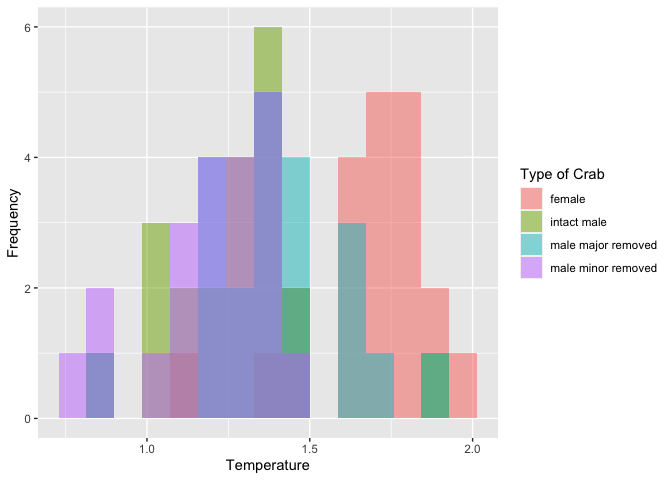
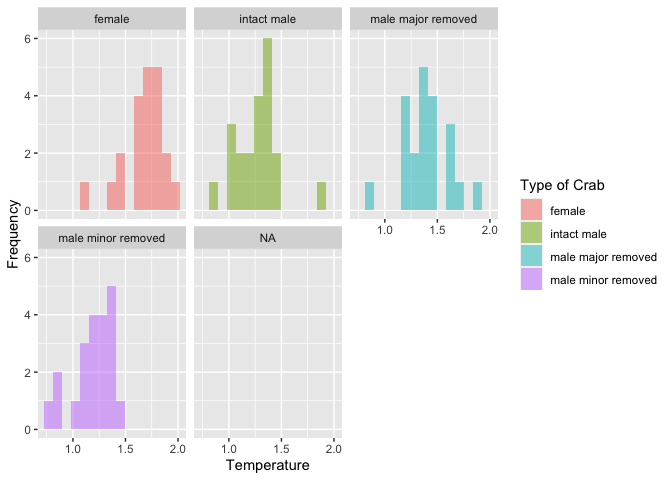
Still Committed to the github game

diff --git a/README.md b/README.md
@@ -261,7 +261,8 @@ crabs %>%
     alpha = 0.5,
     position= "identity",
     na.rm = TRUE)+
-  labs(x= "Temperature", y="Frequency", fill="Type of Crab")
+  labs(x= "Temperature", y="Frequency", fill="Type of Crab")+
+  facet_wrap(~crabType)
 ```
 
 ![](README_files/figure-gfm/unnamed-chunk-6-1.png)<!-- -->
@@ -307,4 +308,5 @@ summary(aov_crabs)
 
 The results show that there is a significant difference of temperatures
 between crab types. We know this because the F value is not close to 1
-and the P value is smaller than 0.05.
+and the P value is smaller than 0.05. Therefore, we can reject the null
+hypothesis.
